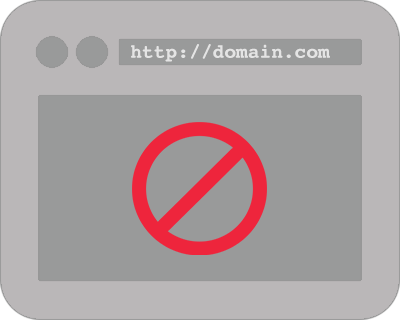
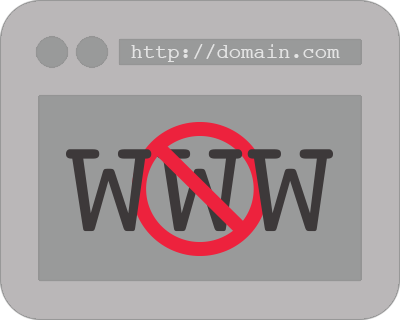
modified graphics and added retina sizes. Removed a few unused classes.

diff --git a/index.html b/index.html
@@ -4,7 +4,7 @@
 		<title>1997 Called. It wants it's subdomain back.</title>
 		<link rel="stylesheet" href="css/uikit.css" />
 		<script src="js/jquery.js"></script>
-		<script src="js/uikit.min.js"></script>
+		<script src="js/uikit.js"></script>
 		<link rel="icon" type="image/x-icon" href="http://killthewww.com/favicon.ico"/>
 		<meta name="google-site-verification" content="JciSQHSAtB8wHdL0CBsJCiE5ToRX27cdZmJgx7v38iw" />	
 	</head>
@@ -47,9 +47,9 @@
 	    <section id="topcontent">
 	        	<div style="background: url('images/www-bg.jpg') 50% 0 no-repeat; background-size: cover; min-height: 340px;" class="uk-align-center tm-demo-image">
                     <div class="uk-container uk-container-center">
-						<div class="uk-grid frontpage uk-vertical-align">
+						<div class="uk-grid frontpage">
 						
-								<div class="uk-width-medium-1-3 uk-vertical-align-middle uk-animation-fade">
+								<div class="uk-width-medium-1-3 uk-animation-fade">
 									 <img src="images/browser.png" alt="Web Browser Icon" />
 								</div>
 			
